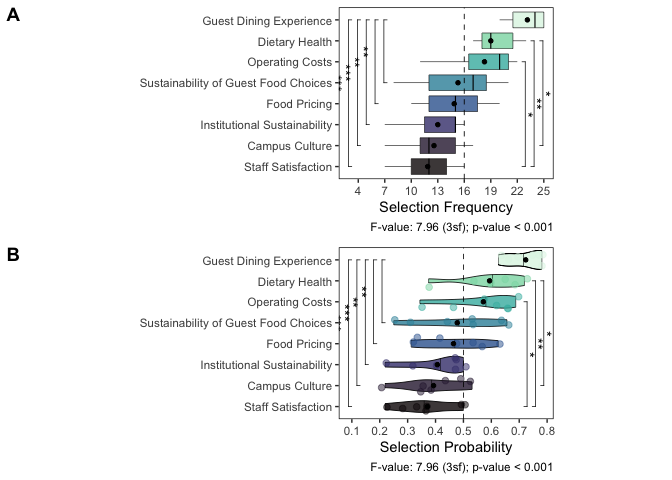
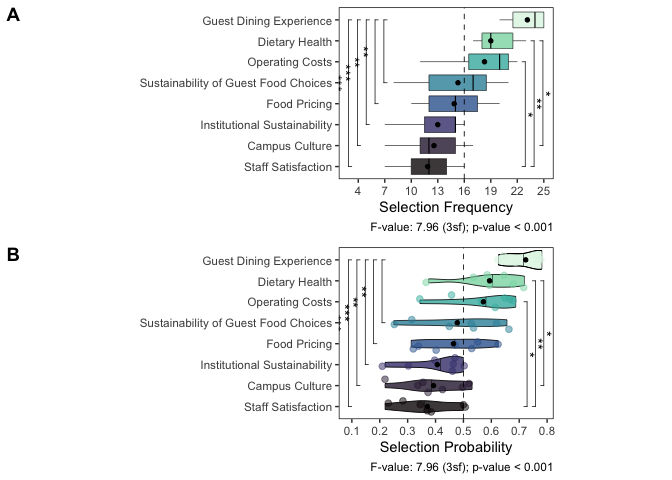
performed necessary wrangling to decompose aggregate probability analysis for decision makers

diff --git a/scripts/cleaning-script.md b/scripts/cleaning-script.md
@@ -4155,16 +4155,12 @@ TukeyHSD(decision_maker_selection_probability_aov)
     ## Sustainability of Guest Food Choices-Operating Costs              0.7032346
     ## Sustainability of Guest Food Choices-Staff Satisfaction           1.0000000
 
-Dietary Health-Campus Culture 0.17857143 0.007104583 0.35003827
-0.0357605 Guest Dining Experience-Campus Culture 0.32142857 0.149961725
-0.49289542 0.0000082 Operating Costs-Campus Culture 0.20238095
-0.030914106 0.37384780 0.0106998 Guest Dining Experience-Food Pricing
-0.26190476 0.090437916 0.43337161 0.0003491 Institutional
-Sustainability-Guest Dining Experience -0.26190476 -0.433371608
--0.09043792 0.0003491 Staff Satisfaction-Guest Dining Experience
--0.21428571 -0.385752560 -0.04281887 0.0056165 Sustainability of Guest
-Food Choices-Guest Dining Experience -0.21428571 -0.385752560
--0.04281887 0.0056165
+Dietary Health-Campus Culture 0.0357605 * Guest Dining Experience-Campus
+Culture 0.0000082 *** Operating Costs-Campus Culture 0.0106998 * Guest
+Dining Experience-Food Pricing 0.0003491 *** Institutional
+Sustainability-Guest Dining Experience 0.0003491 \*** Staff
+Satisfaction-Guest Dining Experience 0.0056165 ** Sustainability of
+Guest Food Choices-Guest Dining Experience 0.0056165 \*\*
 
 ``` r
 decision_maker_selection_probability_plot <- decision_maker_priority_probability_table %>%
@@ -4172,8 +4168,15 @@ decision_maker_selection_probability_plot <- decision_maker_priority_probability
   geom_violin(color="black",draw_quantiles=0.5,alpha=0.8,size=0.2) +
   geom_jitter(width=0.33,size=2,shape=21,alpha=0.5) +
   geom_hline(yintercept=0.4866071,linetype="dashed",size=0.3) +
-  geom_signif(comparisons=list(c("Dietary Health","Campus Culture")),color="black",size=0.25,annotation="*",y_position=0.66,tip_length=0.02,vjust=0.5) +
   stat_summary(fun.y=mean,geom="point",shape=20,size=2,color="black",fill="white") +
+  geom_signif(comparisons=list(c("Staff Satisfaction","Guest Dining Experience")),color="black",size=0.25,annotation="**",y_position=0.14,tip_length=-0.02,vjust=2.5) +
+  geom_signif(comparisons=list(c("Guest Dining Experience","Campus Culture")),color="black",size=0.25,annotation="***",y_position=0.16,tip_length=-0.02,vjust=2.5) +
+  geom_signif(comparisons=list(c("Institutional Sustainability","Guest Dining Experience")),color="black",size=0.25,annotation="***",y_position=0.18,tip_length=-0.02,vjust=2.5) +
+   geom_signif(comparisons=list(c("Guest Dining Experience","Food Pricing")),color="black",size=0.25,annotation="***",y_position=0.20,tip_length=-0.02,vjust=2.5) +
+  geom_signif(comparisons=list(c("Sustainability of Guest Food Choices","Guest Dining Experience")),color="black",size=0.25,annotation="**",y_position=0.22,tip_length=-0.02,vjust=2.5) +
+  stat_summary(fun.y=mean,geom="point",shape=20,size=2,color="black",fill="white") +
+  geom_signif(comparisons=list(c("Dietary Health","Campus Culture")),color="black",size=0.25,annotation="*",y_position=0.71,tip_length=0.02,vjust=0.5) +
+  geom_signif(comparisons=list(c("Operating Costs","Campus Culture")),color="black",size=0.25,annotation="*",y_position=0.69,tip_length=0.02,vjust=0.5) +
   scale_fill_viridis_d(option="mako") +
   scale_color_viridis_d(option="mako",alpha=1) +
   scale_y_continuous(breaks=c(0.1,0.2,0.3,0.4,0.5,0.6,0.7,0.8)) +
@@ -4188,27 +4191,12 @@ decision_maker_selection_probability_plot
 
 ![](cleaning-script_files/figure-gfm/unnamed-chunk-154-1.png)<!-- -->
 
-geom_signif(comparisons=list(c(“Staff Satisfaction”,“Guest Dining
-Experience”)),color=“black”,size=0.25,annotation=“***”,y_position=0.06,tip_length=-0.02,vjust=3) +
-geom_signif(comparisons=list(c(”Guest Dining Experience”,”Campus
-Culture”)),color=”black”,size=0.25,annotation=”***”,y_position=0.09,tip_length=-0.02,vjust=3) +
-geom_signif(comparisons=list(c(“Institutional Sustainability”,“Guest
-Dining
-Experience”)),color=“black”,size=0.25,annotation=“\*\*\*“,y_position=0.12,tip_length=-.02,vjust=3)
-+
+``` r
+ggarrange(selection_probability_plot,decision_maker_selection_probability_plot,
+          nrow=2)
+```
 
-geom_signif(comparisons=list(c(“Guest Dining Experience”,“Food
-Pricing”)),color=“black”,size=0.25,annotation=“**”,y_position=0.15,tip_length=-0.02,vjust=3) +
-geom_signif(comparisons=list(c(”Sustainability of Guest Food
-Choices”,”Guest Dining
-Experience”)),color=”black”,size=0.25,annotation=”**”,y_position=0.18,tip_length=-0.02,vjust=3) +
-geom_signif(comparisons=list(c(“Staff Satisfaction”,“Operating
-Costs”)),color=“black”,size=0.25,annotation=“\*“,y_position=0.70,tip_length=0.02,vjust=0.5) +
-geom_signif(comparisons=list(c(”Staff Satisfaction”,“Dietary
-Health”)),color=“black”,size=0.25,annotation=“\*\*“,y_position=0.73,tip_length=0.02,vjust=0.5) +
-geom_signif(comparisons=list(c(”Dietary Health”,“Campus
-Culture”)),color=“black”,size=0.25,annotation=“\*“,y_position=0.76,tip_length=0.02,vjust=0.5)
-+
+![](cleaning-script_files/figure-gfm/unnamed-chunk-155-1.png)<!-- -->
 
 ``` r
 priority_z_score_table <- priority_score_zscores %>%
@@ -4288,4 +4276,4 @@ priority_z_score_table %>%
   theme(aspect.ratio=0.8,legend.position="none",panel.grid=element_blank(),panel.background=element_rect(fill="white"),panel.border=element_rect(fill=NA),legend.title=element_text(size=10),legend.text=element_text(size=10),plot.title=element_text(size=10))
 ```
 
-![](cleaning-script_files/figure-gfm/unnamed-chunk-157-1.png)<!-- -->
+![](cleaning-script_files/figure-gfm/unnamed-chunk-158-1.png)<!-- -->
